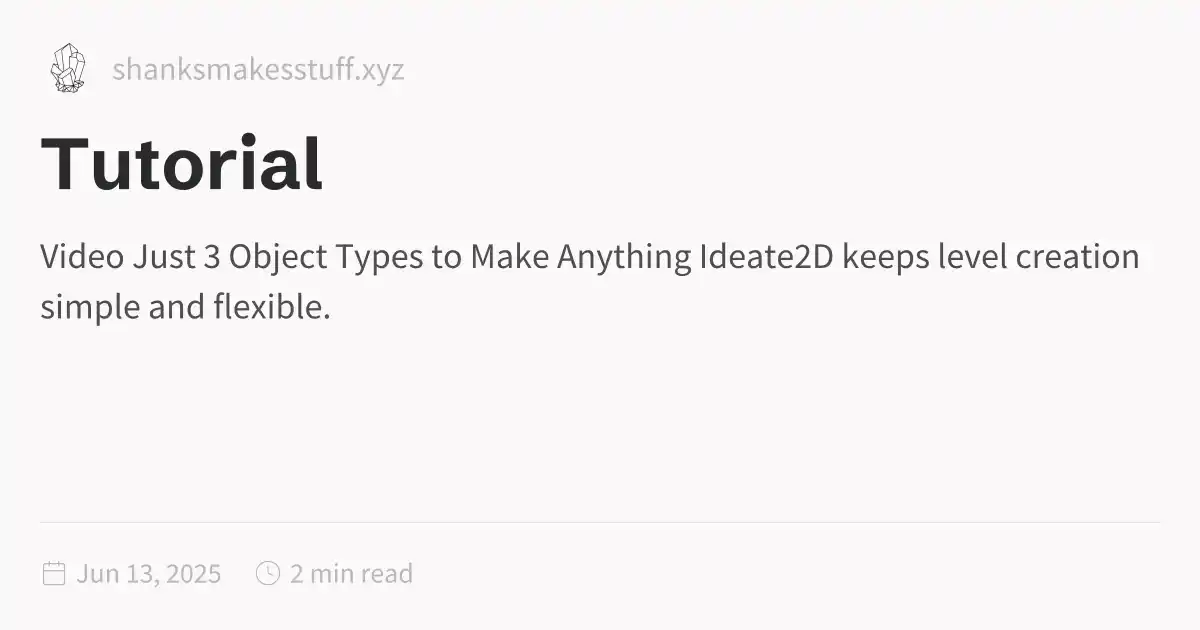
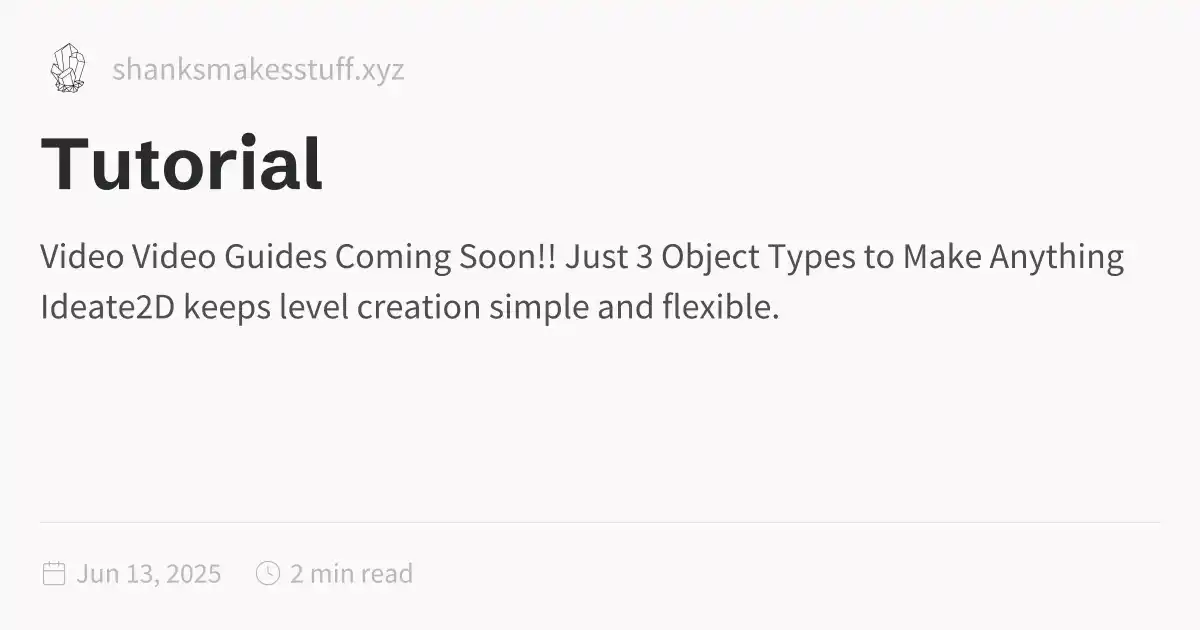
2025-06-13_1153

Changed region(s): [[0.0308, 0.3921, 0.9558, 0.5127]]

diff --git a/Tutorial.html b/Tutorial.html
@@ -1,5 +1,5 @@
 <!DOCTYPE html>
-<html lang="en"><head><title>Tutorial</title><meta charset="utf-8"/><link rel="preconnect" href="https://fonts.googleapis.com"/><link rel="preconnect" href="https://fonts.gstatic.com"/><link rel="stylesheet" href="https://fonts.googleapis.com/css2?family=Schibsted Grotesk:wght@400;700&amp;family=Source Sans Pro:ital,wght@0,400;0,600;1,400;1,600&amp;family=IBM Plex Mono:wght@400;600&amp;display=swap"/><link rel="preconnect" href="https://cdnjs.cloudflare.com" crossorigin="anonymous"/><meta name="viewport" content="width=device-width, initial-scale=1.0"/><meta name="og:site_name" content="ShanksMakesStuff"/><meta property="og:title" content="Tutorial"/><meta property="og:type" content="website"/><meta name="twitter:card" content="summary_large_image"/><meta name="twitter:title" content="Tutorial"/><meta name="twitter:description" content="Video Just 3 Object Types to Make Anything Ideate2D keeps level creation simple and flexible."/><meta property="og:description" content="Video Just 3 Object Types to Make Anything Ideate2D keeps level creation simple and flexible."/><meta property="og:image:alt" content="Video Just 3 Object Types to Make Anything Ideate2D keeps level creation simple and flexible."/><meta property="twitter:domain" content="shanksmakesstuff.xyz"/><meta property="og:url" content="https://shanksmakesstuff.xyz/Tutorial"/><meta property="twitter:url" content="https://shanksmakesstuff.xyz/Tutorial"/><link rel="icon" href="./static/icon.png"/><meta name="description" content="Video Just 3 Object Types to Make Anything Ideate2D keeps level creation simple and flexible."/><meta name="generator" content="Quartz"/><link href="./index.css" rel="stylesheet" type="text/css" spa-preserve/><style>.expand-button {
+<html lang="en"><head><title>Tutorial</title><meta charset="utf-8"/><link rel="preconnect" href="https://fonts.googleapis.com"/><link rel="preconnect" href="https://fonts.gstatic.com"/><link rel="stylesheet" href="https://fonts.googleapis.com/css2?family=Schibsted Grotesk:wght@400;700&amp;family=Source Sans Pro:ital,wght@0,400;0,600;1,400;1,600&amp;family=IBM Plex Mono:wght@400;600&amp;display=swap"/><link rel="preconnect" href="https://cdnjs.cloudflare.com" crossorigin="anonymous"/><meta name="viewport" content="width=device-width, initial-scale=1.0"/><meta name="og:site_name" content="ShanksMakesStuff"/><meta property="og:title" content="Tutorial"/><meta property="og:type" content="website"/><meta name="twitter:card" content="summary_large_image"/><meta name="twitter:title" content="Tutorial"/><meta name="twitter:description" content="Video Video Guides Coming Soon!! Just 3 Object Types to Make Anything Ideate2D keeps level creation simple and flexible."/><meta property="og:description" content="Video Video Guides Coming Soon!! Just 3 Object Types to Make Anything Ideate2D keeps level creation simple and flexible."/><meta property="og:image:alt" content="Video Video Guides Coming Soon!! Just 3 Object Types to Make Anything Ideate2D keeps level creation simple and flexible."/><meta property="twitter:domain" content="shanksmakesstuff.xyz"/><meta property="og:url" content="https://shanksmakesstuff.xyz/Tutorial"/><meta property="twitter:url" content="https://shanksmakesstuff.xyz/Tutorial"/><link rel="icon" href="./static/icon.png"/><meta name="description" content="Video Video Guides Coming Soon!! Just 3 Object Types to Make Anything Ideate2D keeps level creation simple and flexible."/><meta name="generator" content="Quartz"/><link href="./index.css" rel="stylesheet" type="text/css" spa-preserve/><style>.expand-button {
   position: absolute;
   display: flex;
   float: right;
@@ -116,12 +116,17 @@ pre:hover > .expand-button {
   padding: 0 12px;
   font-size: 14px;
 }
[2 lines of base64/hex data omitted]
 <div class="callout-title">
                   <div class="callout-icon"></div>
                   <div class="callout-title-inner"><p>Video</p></div>
                   
                 </div>
+<div class="callout-content">
+<div class="callout-content-inner">
+<p>Video Guides Coming Soon!!</p>
+</div>
+</div>
 </blockquote>
 <p><strong>Just 3 Object Types to Make Anything</strong></p>
 <p>Ideate2D keeps level creation simple and flexible. With just <strong>three core object types</strong>, you can build just about anything—from platforms and hazards to interactive environments and effects.</p>
